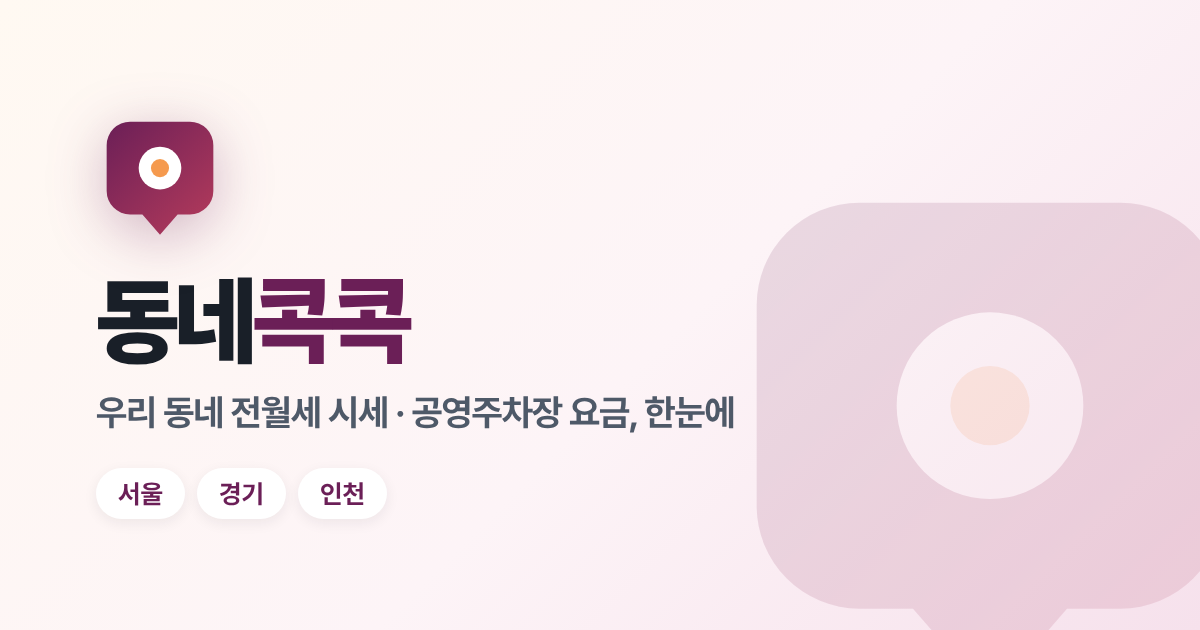
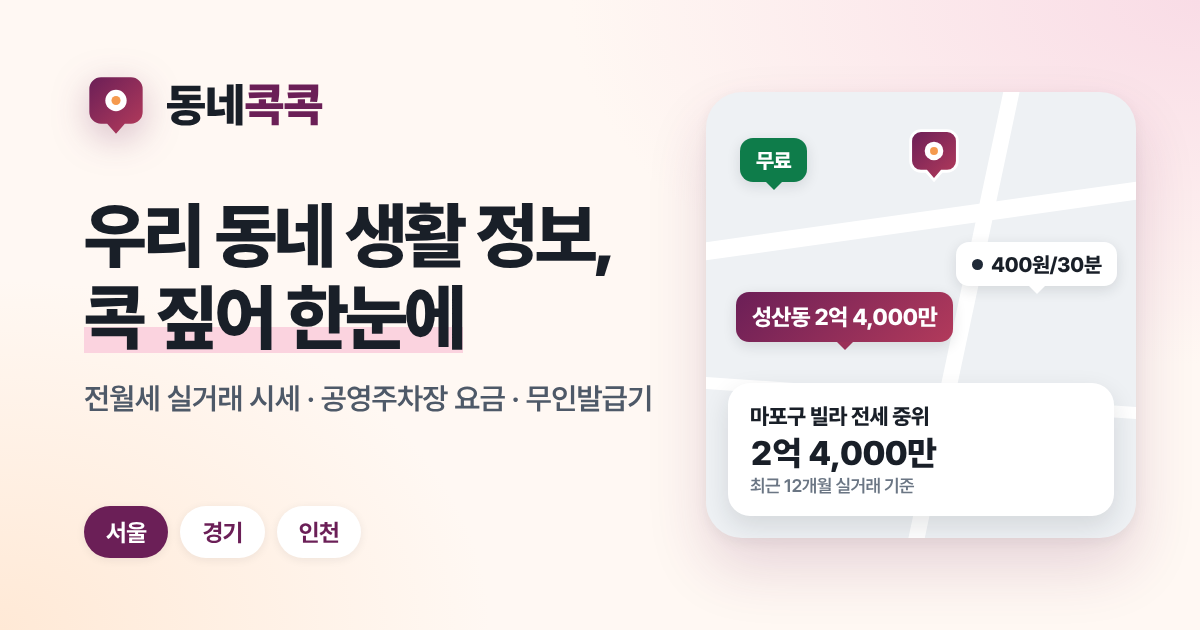
링크 공유 미리보기 이미지(도구별)·미리보기 봇 허용, 가격 위치 라벨·긴 이름·동 칩 다듬기 (#32)
* WIP: v2 셸·전월세 시군구/동 화면

Claude-Session: https://claude.ai/code/session_01KrYSLHYwPJUQUUZBmRH5Jp

* UX v2: 공통 틀·전월세·주차장 새 화면, 지도 처음부터 다시

- 모든 찾는 화면을 위치 줄 · 답 카드 · 조건+목록 · 접힘 한 문법으로
- 새 지도(src/scripts/map): 지금 화면의 하위 지역만 색·숫자, 이웃은 흐리게,
  목록↔지도 마우스 연동, PC는 눌러서 이동·모바일은 카드 한 장, 건물별 거래 탭에서만 건물 점
- 전월세 처음: 지역으로 보기 / 내 예산으로 찾기(기본 '예산에 가까운 순')
- 주차장 화면 v2, 상세도 지도 틀 안. 발급기는 공통 틀만
- 옛 지도 패널·도구 막대·지역 칩·요약 카드 삭제

Claude-Session: https://claude.ai/code/session_01KrYSLHYwPJUQUUZBmRH5Jp

* 화면 안 이동 뒤 안 눌리던 버튼 고침 + 홈 '내 주변'(기기 안에서만 위치 사용)

- soft-nav: 새 페이지의 본문 밖 스크립트·인라인 스크립트도 한 번 실행, 발급기(동결)는 보통 이동
- 주차장 요금 계산 버튼 onPage로 다시 연결
- 홈: 들어오면 브라우저 위치 권한 → 내 동 전월세 중위 + 3km 안 공영주차장 5곳 + 지도 이동
- 깊은 화면: 작은 '내 주변 보기' 버튼. 좌표는 서버·URL·저장소에 남기지 않음, 개인정보처리방침 반영

Claude-Session: https://claude.ai/code/session_01KrYSLHYwPJUQUUZBmRH5Jp

* 세세한 UX 1차: 지역 고르기 격자·초성 검색·최근 본 곳, 정렬 칩, 예산 금액 칩, 검색 시트 개선

- 위치 줄 판: 3칸 격자 + 즉시 거르기(초성) + 최근 본 곳, 모바일은 아래 시트
- 목록 정렬 선택상자 → 한 줄 칩, 더 보기에 남은 개수
- 예산: 보증금·월세 빠른 칩
- 검색 시트: 초성, 최근 본 곳, 결과 줄에 다른 도구 바로가기, Enter로 첫 결과
- 홈 '자주 찾는 지역'은 최근 본 곳이 있으면 그걸 먼저, PC 머리말 중복 검색 아이콘 숨김
- 개인정보처리방침: 최근 본 지역 기기 저장 명시

Claude-Session: https://claude.ai/code/session_01KrYSLHYwPJUQUUZBmRH5Jp

* 지도 v3(전월세 값 배지·부드러운 칠, 주차장 요금 색 핀·무료 묶음·범례) + 주차장 '내 주변'은 주차장만

Claude-Session: https://claude.ai/code/session_01KrYSLHYwPJUQUUZBmRH5Jp

* 시각 다듬기 1차: 검정 외곽선 제거(흰 선+자두빛 번짐), 홈 머리·도구 색 타일·답 카드·흰 칩·흰 주차장 핀·바닥글 출처 정리, 홈 전월세 탭 켜짐·검색 시트 도구 맥락 고침, 주차장 빈 결과 문구 구체화
[…]

diff --git a/src/styles/global.css b/src/styles/global.css
@@ -334,7 +334,7 @@ body { font-size: calc(16px * var(--fs)); }
 .v-row:hover { background: #FAFAFB; }
 .v-row .sw { width: 10px; height: 10px; flex: none; border-radius: 3px; box-shadow: inset 0 0 0 1px rgb(15 23 42 / .12); }
 .v-row .t { min-width: 0; flex: 1; }
-.v-row .n { display: block; font-size: calc(17px * var(--fs, 1)); font-weight: 700; color: var(--color-ink); }
+.v-row .n { display: block; font-size: calc(17px * var(--fs, 1)); font-weight: 700; color: var(--color-ink); overflow-wrap: anywhere; }
 .v-row a.n::after { content: ''; position: absolute; inset: 0; }
 .v-row .s { display: block; margin-top: 1px; font-size: calc(14px * var(--fs, 1)); color: var(--color-ink-3); }
 .v-row .val { text-align: right; font-size: calc(17px * var(--fs, 1)); font-weight: 700; color: var(--color-ink); font-variant-numeric: tabular-nums; white-space: nowrap; }
@@ -599,7 +599,9 @@ html[data-rt="o"]:not([data-rk="w"]) .v-row .sw-wrap .sw.rm-oj, html[data-rt="o"
 .v-pos-bands .v-chip::after { inset: -4px 0; }
 .v-pos-out { margin-top: 10px; font-size: calc(16px * var(--fs, 1)); font-weight: 700; color: var(--color-ink); line-height: 1.5; }
 .v-pos-note { margin-top: 8px; font-size: calc(12.5px * var(--fs, 1)); color: var(--color-ink-3); }
-.v-rangebox:has(.mine:not([hidden])) .v-range-ends { margin-top: 24px; }
+.v-rangebox:has(.mine:not([hidden])) .v-range-ends { margin-top: calc(14px + 22px * var(--fs, 1)); }
+.v-range .mine[data-edge="l"] b { left: -4px; transform: none; }
+.v-range .mine[data-edge="r"] b { left: auto; right: -4px; transform: none; }
 /* 주차장 머물 시간(2026-11-27) */
 .v-stay { display: flex; align-items: center; gap: 2px; padding: 4px; border-radius: 14px; background: var(--color-bg); }
 .v-stay-k { margin: 6px 0 -2px; font-size: calc(14px * var(--fs, 1)); font-weight: 700; color: var(--color-ink-2); } .v-stay-k small { font-weight: 500; color: var(--color-ink-3); font-size: inherit; }
@@ -668,7 +670,12 @@ body:has([data-bottom-bar]) .v-pill:not(.mv-back) { bottom: calc(92px + env(safe
 .v-dongjump a[hidden]{display:none}
 .v-dongjump a:hover{color:var(--color-ink);background:#FAFAFB}
 .v-dongjump a span{font-size:calc(12px*var(--fs,1));font-weight:700;color:var(--color-ink-3);font-variant-numeric:tabular-nums}
-@media (min-width:1024px){.v-dongjump{flex-wrap:wrap;margin:10px 0 0;padding:2px 0}}
+/* 폰: 오른쪽 끝을 흐리게 해 '옆으로 더 있음'을 보여 준다. PC: 마우스로 가로 넘기기는 불편해 두 줄까지만 보이고 '모두 보기' */
+@media (max-width:1023px){.v-dongjump{-webkit-mask-image:linear-gradient(90deg,#000 calc(100% - 36px),transparent);mask-image:linear-gradient(90deg,#000 calc(100% - 36px),transparent);padding-right:40px}}
+@media (min-width:1024px){.v-dongjump{flex-wrap:wrap;margin:10px 0 0;padding:4px 2px;max-height:calc(2 * (36px * var(--fs,1)) + 14px);overflow:hidden}
+  .v-dongjump.is-open{max-height:none}}
+.v-dongjump-more{display:none}
+@media (min-width:1024px){.v-dongjump-more:not([hidden]){display:inline-flex;align-items:center;gap:4px;min-height:36px;margin-top:4px;padding:0 4px;font-size:calc(14px*var(--fs,1));font-weight:700;color:var(--color-brand)}}
 .v-s-addr-h{font-size:calc(13px*var(--fs,1));font-weight:700;color:var(--color-ink-3)}
 .v-s-addr-src{margin-top:6px;font-size:calc(12px*var(--fs,1));color:var(--color-ink-3)}
 

diff --git a/src/scripts/parking-list.ts b/src/scripts/parking-list.ts
@@ -116,6 +116,16 @@ function bind() {
     if (a) unclipFor(a.hash);
   }, { signal: ac.signal });
 
+  // PC 동 바로가기: 두 줄이 넘으면 '동 N곳 모두 보기'로 펼친다
+  const jumpNav = document.getElementById('dong-jump');
+  const jumpMore = document.querySelector<HTMLButtonElement>('.v-dongjump-more');
+  if (jumpNav && jumpMore) {
+    const n = jumpNav.querySelectorAll('a').length;
+    const sync = () => { const open = jumpNav.classList.contains('is-open'); jumpMore.hidden = jumpNav.hidden || (!open && jumpNav.scrollHeight <= jumpNav.clientHeight + 2) || getComputedStyle(jumpNav).flexWrap !== 'wrap'; jumpMore.textContent = open ? '동 바로가기 접기' : `동 ${n}곳 모두 보기`; jumpMore.setAttribute('aria-expanded', String(open)); };
+    jumpMore.addEventListener('click', () => { jumpNav.classList.toggle('is-open'); sync(); });
+    addEventListener('resize', sync, { signal: ac.signal }); document.addEventListener('list:filtered', sync, { signal: ac.signal }); sync();
+  }
+
   // 정렬: 무료(0) → 요금 낮은 순 → 요금 정보 없음은 맨 뒤. 같은 값은 이름순.
   const boxes = [...list.querySelectorAll<HTMLElement>('[data-lots]')];
   boxes.forEach((box, i) => box.querySelectorAll<HTMLElement>('.lot').forEach((r) => (r.dataset.home = String(i))));

diff --git a/src/pages/robots.txt.ts b/src/pages/robots.txt.ts
@@ -2,10 +2,13 @@
 import type { APIRoute } from 'astro';
 import { SITE_URL, NOINDEX_ALL } from '../config.ts';
 
+const PREVIEW_BOTS = ['kakaotalk-scrap', 'facebookexternalhit', 'Facebot', 'Twitterbot', 'Slackbot-LinkExpanding', 'Slackbot', 'Discordbot', 'TelegramBot', 'LinkedInBot', 'WhatsApp'];
+
 export const GET: APIRoute = () =>
   new Response(
     NOINDEX_ALL
-      ? 'User-agent: *\nDisallow: /\n'
+      // 임시 주소: 검색엔진은 막되, 메신저·SNS 링크 미리보기 봇은 허용(막으면 공유 카드 이미지가 빈 칸이 된다)
+      ? `${PREVIEW_BOTS.map((b) => `User-agent: ${b}`).join('\n')}\nAllow: /\n\nUser-agent: *\nAllow: /og.png\nAllow: /og-\nAllow: /apple-touch-icon.png\nAllow: /favicon.svg\nDisallow: /\n`
       : `User-agent: *\nAllow: /\nSitemap: ${SITE_URL}/sitemap-index.xml\n`,
     { headers: { 'Content-Type': 'text/plain; charset=utf-8' } },
   );
